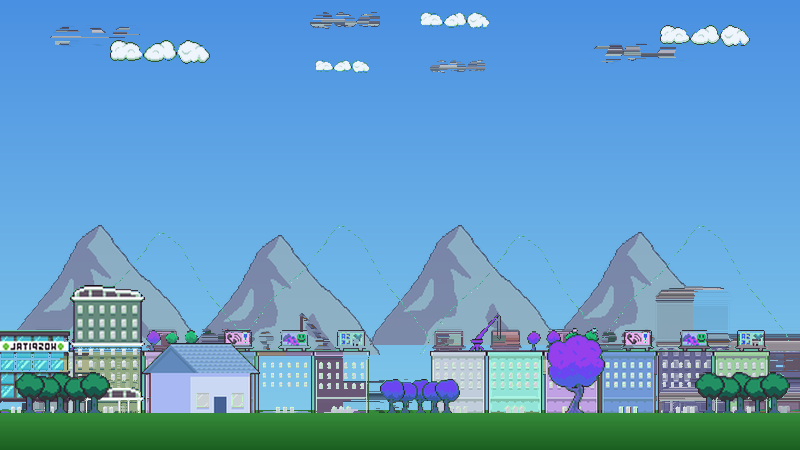
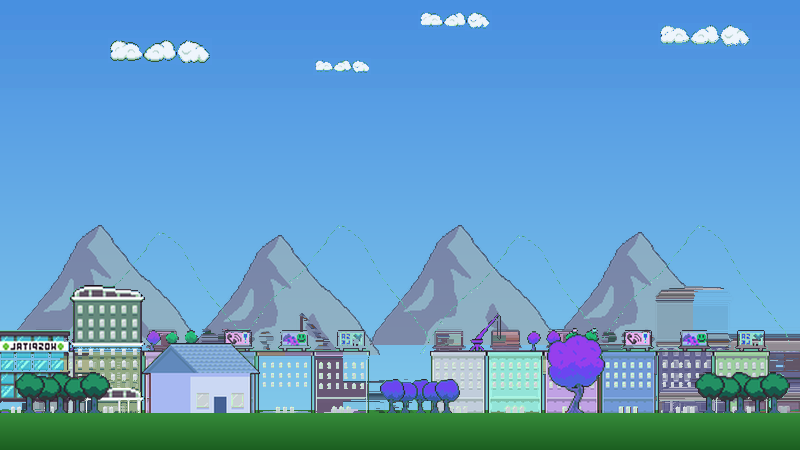
Fix glitchy see-through clouds on level 2 sky; add Play Again button to Win/Game Over
- Removed the washed-out gray streak-cloud artifacts from bg_city_l2.png,
  leaving only the solid white puffy clouds.
- Added a Play Again button overlay shown on WIN and GAME OVER that
  resets coins, health, and level back to 1 instead of requiring a
  manual page refresh.

Claude-Session: https://claude.ai/code/session_01S76QWKhLRjoXeALWho7RNU

diff --git a/index.html b/index.html
@@ -37,10 +37,14 @@
             max-height: 96dvh;
             overflow: hidden;
         }
-        canvas {
-            display: block;
+        .canvas-wrap {
+            position: relative;
             flex: 1 1 auto;
             min-height: 0;
+            display: flex;
+        }
+        canvas {
+            display: block;
             width: 100%;
             height: 100%;
             object-fit: contain;
@@ -48,6 +52,37 @@
             background: linear-gradient(to bottom, #4a90e2, #87ceeb);
             image-rendering: pixelated;
             image-rendering: crisp-edges;
+        }
+        .end-overlay {
+            position: absolute;
+            inset: 0;
+            display: flex;
+            align-items: flex-end;
+            justify-content: center;
+            padding-bottom: 14%;
+            box-sizing: border-box;
+        }
+        .end-overlay[hidden] {
+            display: none;
+        }
+        .end-overlay-btn {
+            font-family: inherit;
+            font-weight: bold;
+            font-size: clamp(14px, 3.6vw, 18px);
+            letter-spacing: 0.5px;
+            color: #1a2430;
+            background: #69f0ae;
+            border: 3px solid #1a2430;
+            border-radius: 6px;
+            padding: 10px 22px;
+            cursor: pointer;
+            box-shadow: 0 4px 0 #2e7d32;
+            touch-action: manipulation;
+            -webkit-tap-highlight-color: transparent;
+        }
+        .end-overlay-btn:active {
+            transform: translateY(2px);
+            box-shadow: 0 2px 0 #2e7d32;
         }
         img {
             image-rendering: pixelated;
@@ -349,7 +384,12 @@
   </div>
 </div>
 <div id="game-container">
-    <canvas id="gameCanvas" width="800" height="450"></canvas>
+    <div class="canvas-wrap">
+        <canvas id="gameCanvas" width="800" height="450"></canvas>
+        <div class="end-overlay" id="endOverlay" hidden>
+            <button type="button" class="end-overlay-btn" id="btnRestart">Play again</button>
+        </div>
+    </div>
     <div class="ui-panel">
         <div class="badge hud-chip">
             <img class="badge-icon" src="assets/world_badge.png" alt="">
@@ -381,6 +421,9 @@
 const canvas = document.getElementById('gameCanvas');
 const ctx = canvas.getContext('2d');
 ctx.imageSmoothingEnabled = false; // keep the pixel art crisp when scaled
+
+const endOverlay = document.getElementById('endOverlay');
+const btnRestart = document.getElementById('btnRestart');
 
 // Sprite assets (sliced from the star/gem sheet, the city tileset, and
 // the bubblegum-blowing boy character sheet)
@@ -1078,6 +1121,7 @@ function render() {
 
     // Draw Overlays for Win / Game Over states
     if (gameState === 'GAMEOVER' || gameState === 'WIN') {
+        endOverlay.hidden = false;
         ctx.fillStyle = 'rgba(0,0,0,0.55)';
         ctx.fillRect(0, 0, canvas.width, canvas.height);
         const pan = sprites.panel;
@@ -1093,7 +1137,7 @@ function render() {
             ctx.fillText('GAME OVER', canvas.width / 2, canvas.height / 2 - 16);
             ctx.font = '16px Courier New';
             ctx.fillStyle = '#f4f0e6';
-            ctx.fillText('Refresh page to restart', canvas.width / 2, canvas.height / 2 + 18);
+            ctx.fillText('Tap Play Again below', canvas.width / 2, canvas.height / 2 + 18);
         } else {
             ctx.fillStyle = '#69f0ae';
             ctx.font = 'bold 32px Courier New';
@@ -1102,6 +1146,8 @@ function render() {
             ctx.fillStyle = '#f4f0e6';
             ctx.fillText('All 3 levels complete', canvas.width / 2, canvas.height / 2 + 18);
         }
+    } else if (!endOverlay.hidden) {
+        endOverlay.hidden = true;
     }
 }
 
@@ -1110,6 +1156,18 @@ function gameLoop() {
     render();
     requestAnimationFrame(gameLoop);
 }
+
+// Restart from Win or Game Over: full reset back to level 1.
+function restart() {
+    scoreCoins = 0;
+    document.getElementById('coinCount').innerText = scoreCoins;
+    playerHealth = MAX_HEALTH;
+    updateHealthUI();
+    gameState = 'PLAYING';
+    endOverlay.hidden = true;
+    loadLevel(1);
+}
+btnRestart.addEventListener('click', restart);
 
 // Initialize Level 1 and Start Loop
 loadLevel(1);
